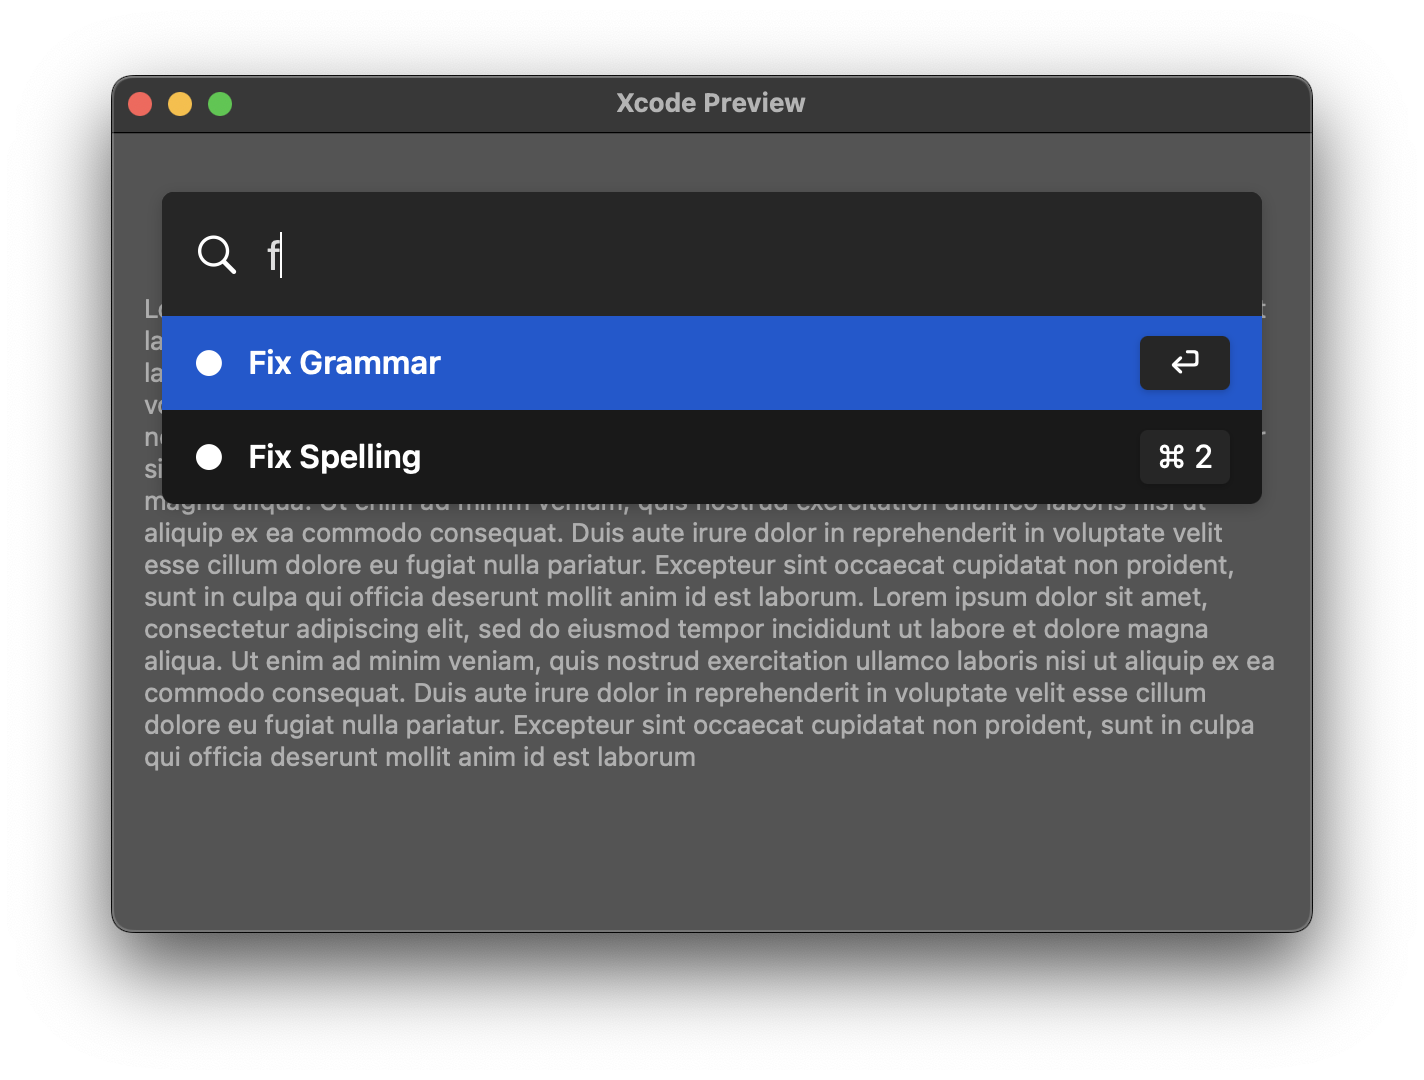
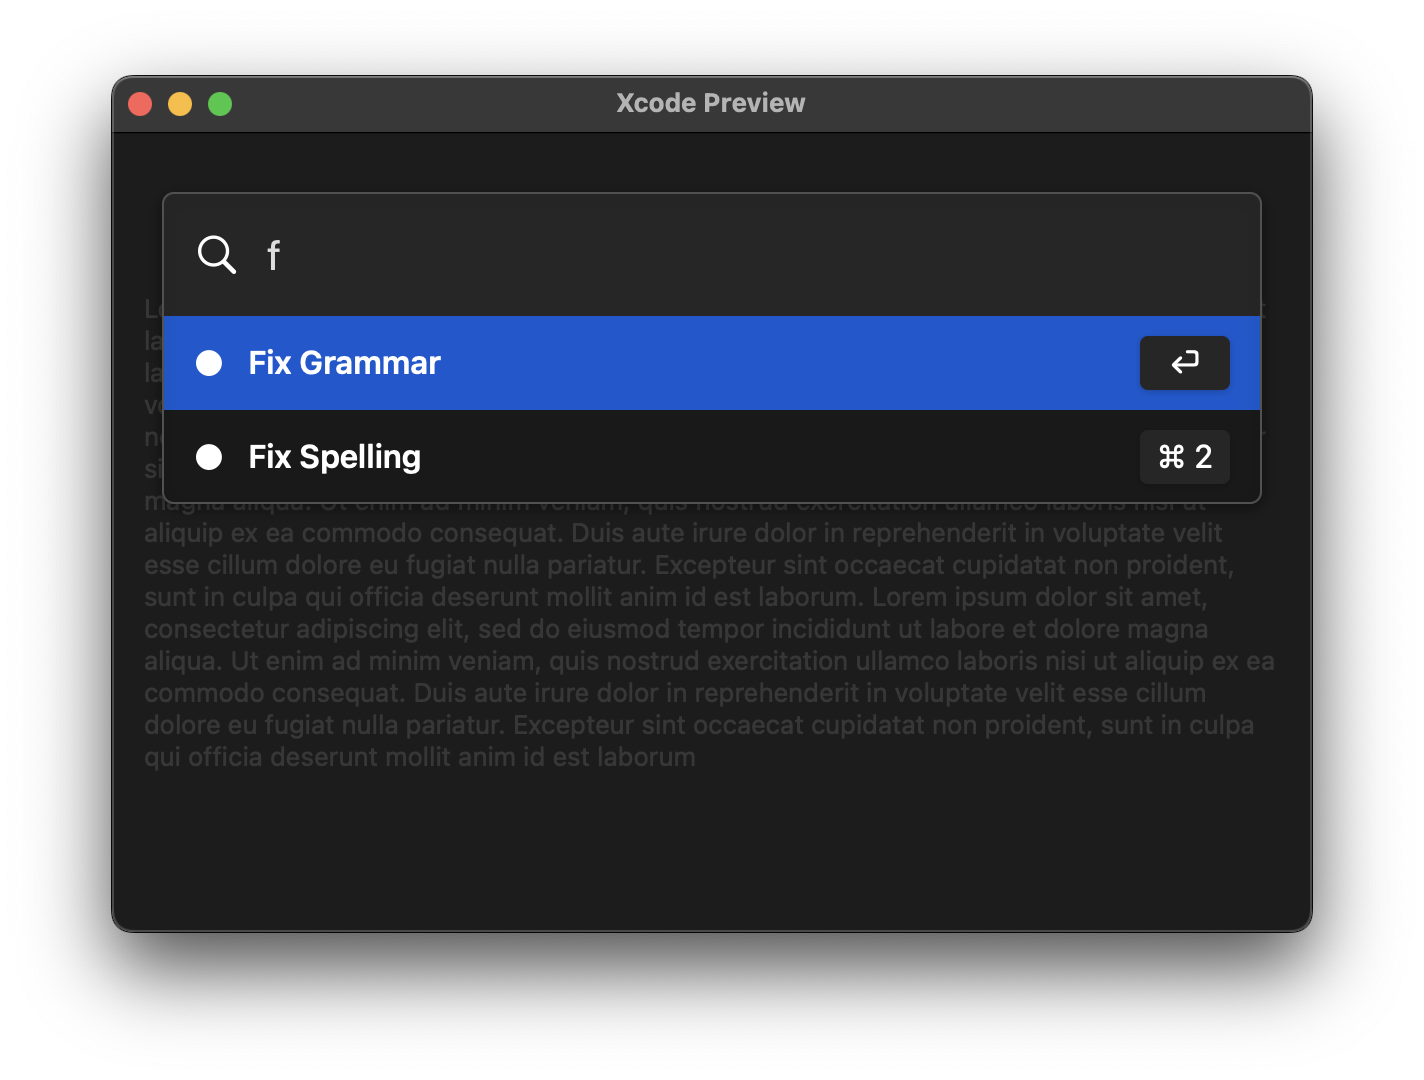
Update design to look more like standard Apple sheets

diff --git a/Sources/KBar/KBar.swift b/Sources/KBar/KBar.swift
@@ -30,7 +30,7 @@ public struct KBar {
 		public var keybinding : KeyboardShortcut? = KeyboardShortcut("k")
 		public var showImages = true
 		public var maxItemsShown = 6
-		public var veil : some View = Color.init(white: 0.5).opacity(0.5)
+		public var veil : some View = Color.init(white: 0.1).opacity(0.85)
 		public var defaultItems : [any KBarItem] = []
 		
 		public init() {
@@ -180,8 +180,8 @@ extension KBar: View {
 			}
 			.background(Color.init(white: 0.1))
 			.foregroundColor(.white)
-			.cornerRadius(6)
-			.shadow(color: .black.opacity(0.2), radius: 4, x: 0, y: 2)
+			.addBorder(Color.init(white: 0.32), width: 1, cornerRadius: 6)
+			.shadow(color: .black.opacity(0.35), radius: 4, x: 0, y: 2)
 			.frame(idealWidth: 450)
 			.frame(maxWidth: 550)
 			
@@ -190,6 +190,21 @@ extension KBar: View {
 		.padding(.vertical, 30)
 		.padding(.horizontal)
 		.transition(.scale)
+	}
+	
+	@ViewBuilder
+	var activationButton : some View {
+		if let keybinding = config.keybinding {
+			Button("Activate KBar") {
+				search = ""
+				updateSearch(search)
+				withAnimation {
+					isActive.wrappedValue = true
+				}
+			}
+			.keyboardShortcut(keybinding)
+			.hidden()
+		}
 	}
 	
 	public var body: some View {
@@ -205,16 +220,8 @@ extension KBar: View {
 				.overlay(bar)
 				.transition(.opacity)
 				.environmentObject(config)
-		} else if let keybinding = config.keybinding {
-			Button("Activate KBar") {
-				search = ""
-				updateSearch(search)
-				withAnimation {
-					isActive.wrappedValue = true
-				}
-			}
-			.keyboardShortcut(keybinding)
-			.hidden()
+		} else {
+			activationButton
 		}
 	}
 }
@@ -246,7 +253,7 @@ struct KBar_Previews: PreviewProvider {
 	static var previews: some View {
 		ZStack {
 			KBar(isActive: .constant(true), items: [KBar.Item(title: "Fix Grammar"), KBar.Item(title: "Fix Spelling"), KBar.Item(title: "Emphasize")])
-			
+
 			Text("Lorem ipsum dolor sit amet, consectetur adipiscing elit, sed do eiusmod tempor incididunt ut labore et dolore magna aliqua. Ut enim ad minim veniam, quis nostrud exercitation ullamco laboris nisi ut aliquip ex ea commodo consequat. Duis aute irure dolor in reprehenderit in voluptate velit esse cillum dolore eu fugiat nulla pariatur. Excepteur sint occaecat cupidatat non proident, sunt in culpa qui officia deserunt mollit anim id est laborum. Lorem ipsum dolor sit amet, consectetur adipiscing elit, sed do eiusmod tempor incididunt ut labore et dolore magna aliqua. Ut enim ad minim veniam, quis nostrud exercitation ullamco laboris nisi ut aliquip ex ea commodo consequat. Duis aute irure dolor in reprehenderit in voluptate velit esse cillum dolore eu fugiat nulla pariatur. Excepteur sint occaecat cupidatat non proident, sunt in culpa qui officia deserunt mollit anim id est laborum. Lorem ipsum dolor sit amet, consectetur adipiscing elit, sed do eiusmod tempor incididunt ut labore et dolore magna aliqua. Ut enim ad minim veniam, quis nostrud exercitation ullamco laboris nisi ut aliquip ex ea commodo consequat. Duis aute irure dolor in reprehenderit in voluptate velit esse cillum dolore eu fugiat nulla pariatur. Excepteur sint occaecat cupidatat non proident, sunt in culpa qui officia deserunt mollit anim id est laborum")
 				.lineLimit(nil)
 				.padding()

diff --git a/Sources/KBar/ViewExtensions.swift b/Sources/KBar/ViewExtensions.swift
@@ -1,0 +1,17 @@
+//
+//  File.swift
+//  
+//
+//  Created by Kyle Carson on 12/26/22.
+//
+
+import Foundation
+import SwiftUI
+
+extension View {
+	public func addBorder<S>(_ content: S, width: CGFloat = 0.5, cornerRadius: CGFloat) -> some View where S : ShapeStyle {
+		let roundedRect = RoundedRectangle(cornerRadius: cornerRadius)
+		return clipShape(roundedRect)
+			 .overlay(roundedRect.strokeBorder(content, lineWidth: width))
+	}
+}
